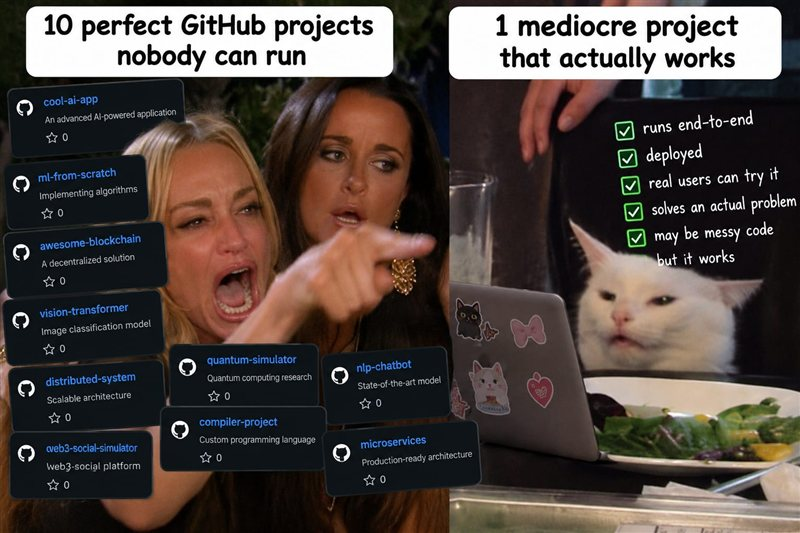
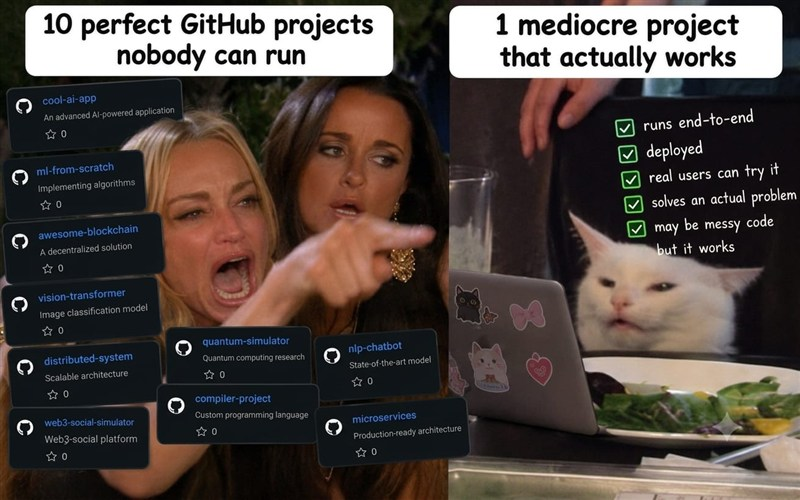
fix: all memes now 800x500 (1.6 ratio), removed object-position hacks
- All 3 memes resized to 800x500 (1.6 ratio matches CSS)
- Removed per-meme object-position hacks
- Images now fit perfectly without cropping

diff --git a/style.css b/style.css
@@ -490,13 +490,7 @@ h4 {
   transform: translateY(-2px);
 }
 
-.meme-card img { width: 100%; aspect-ratio: 16 / 10; display: block; object-fit: cover; object-position: bottom; background: var(--surface); }
-
-.meme-card:nth-child(1) img { object-position: 50% 85%; }
-
-.meme-card:nth-child(2) img { object-position: 50% 55%; }
-
-.meme-card:nth-child(3) img { object-position: 50% 100%; }
+.meme-card img { width: 100%; aspect-ratio: 16 / 10; display: block; object-fit: cover; background: var(--surface); }
 
 #takes-track {
   display: flex;
